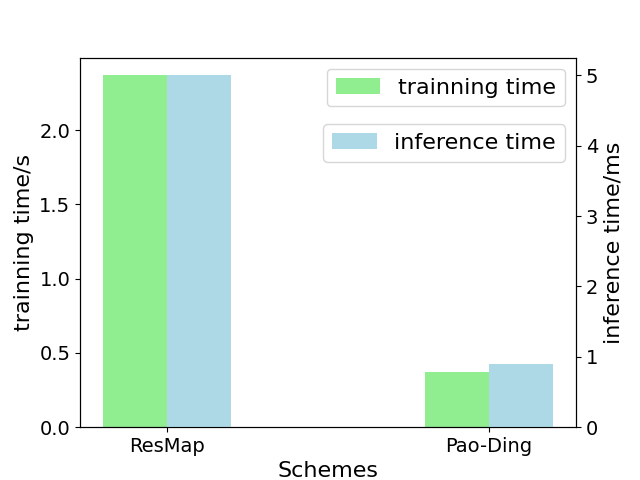
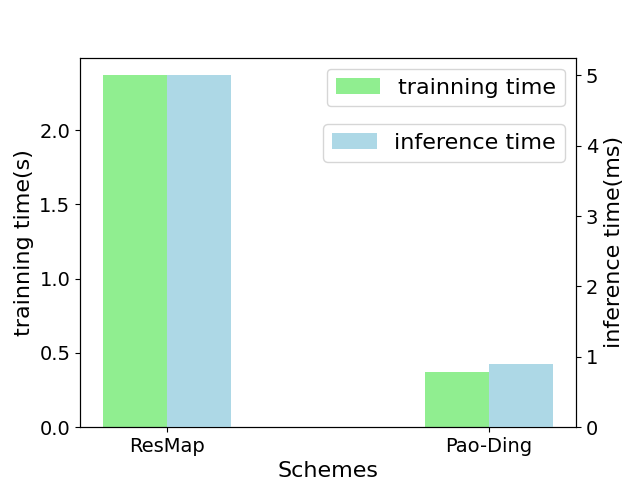
draw fig for clear

Changed region(s): [[0.0, 0.3125, 0.0625, 0.6875], [0.9375, 0.2812, 0.9688, 0.7188]]

diff --git a/pipeline_execution_result/resmap_alexnet/scheme_comparison.py b/pipeline_execution_result/resmap_alexnet/scheme_comparison.py
@@ -25,8 +25,8 @@ bars2 = ax2.bar(x_positions2, values2, color='lightblue', width=bar_width, align
 
 # 设置标题和标签
 ax1.set_xlabel('Schemes', fontsize=16)
-ax1.set_ylabel('trainning time/s', fontsize=16)
-ax2.set_ylabel('inference time/ms', fontsize=16)
+ax1.set_ylabel('trainning time(s)', fontsize=16)
+ax2.set_ylabel('inference time(ms)', fontsize=16)
 
 # 设置x轴的刻度位置和标签
 ax1.set_xticks(0.5 * np.arange(len(categories)))

diff --git a/result_for_docker_sim/pipeline_different_bandwidth.py b/result_for_docker_sim/pipeline_different_bandwidth.py
@@ -43,7 +43,7 @@ ax2.set_ylabel('Layer Index', fontsize=16)
 # 添加标题和标签
 plt.title('Pipeline execution with different bandwidths', fontsize=16)
 ax1.set_xlabel('Bandwidth (Mbps)', fontsize=16)
-ax1.set_ylabel('Time (seconds)', fontsize=16)
+ax1.set_ylabel('Time (s)', fontsize=16)
 
 # 设置坐标轴刻度的字体大小
 ax1.tick_params(axis='both', which='major', labelsize=14)

diff --git a/result_for_docker_sim/pipeline_different_workers.py b/result_for_docker_sim/pipeline_different_workers.py
@@ -10,7 +10,7 @@ plt.bar(workers_num, average_inference, color='lightgreen')
 # 添加标题和标签
 plt.title('Average inference time over different workers', fontsize=16)
 plt.xlabel('Workers number', fontsize=16)
-plt.ylabel('Average inference time/s', fontsize=16)
+plt.ylabel('Average inference time(s)', fontsize=16)
 plt.tick_params(axis='both', labelsize=14)
 
 # 显示图形
